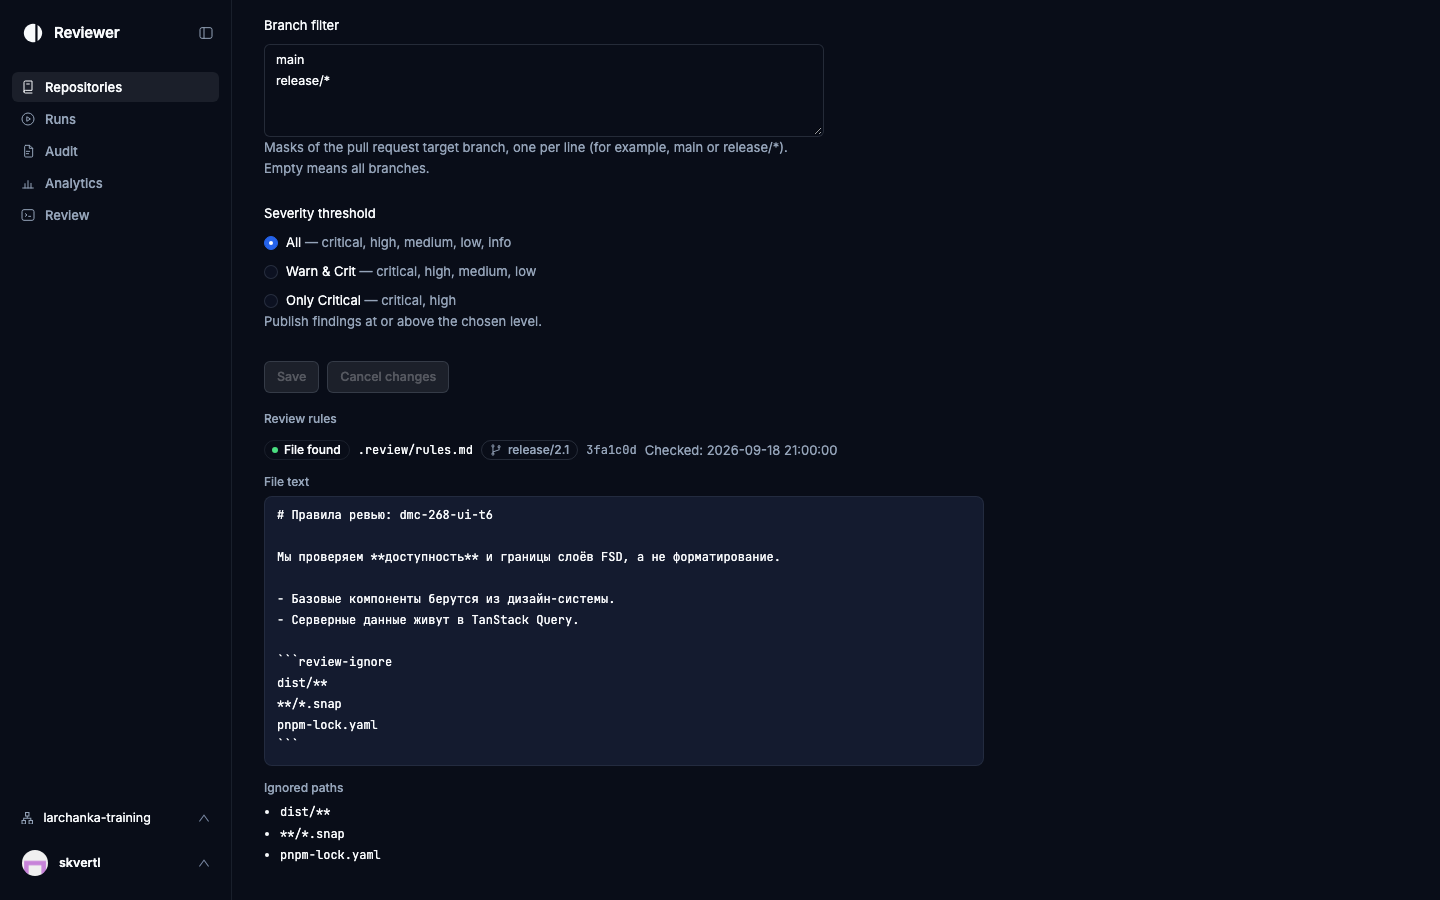
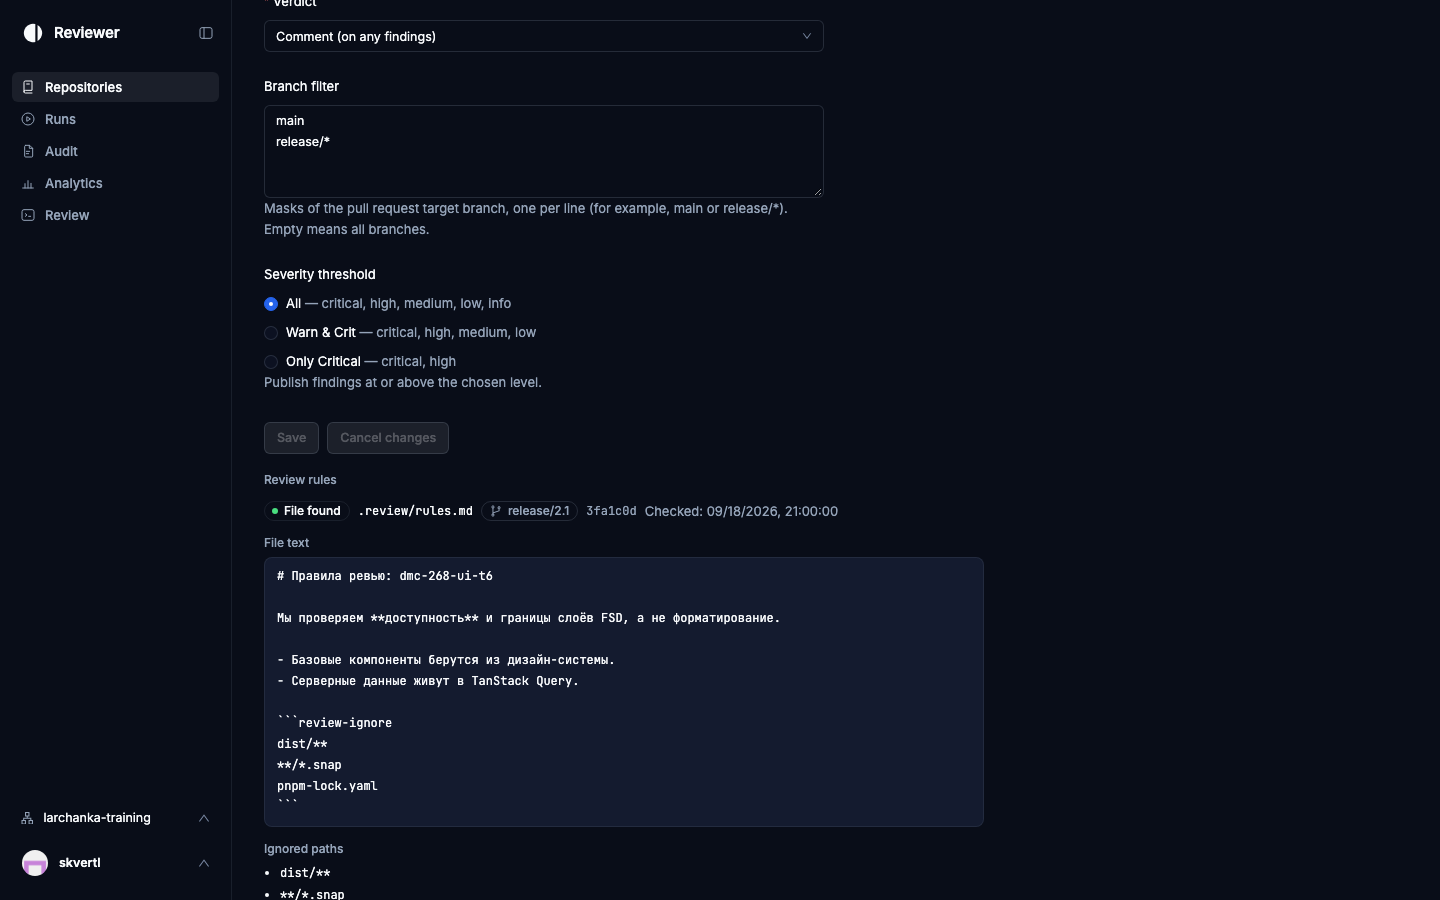
fix(time): keep locale notation with browser time (#129)

Changed region(s): [[0.1875, 0.0, 0.5938, 1.0], [0.3438, 0.4978, 0.5625, 0.5289], [0.4688, 0.6844, 0.5312, 0.7156]]

diff --git a/src/widgets/run-inspector/ui/RunHeader.test.tsx b/src/widgets/run-inspector/ui/RunHeader.test.tsx
@@ -110,8 +110,8 @@ describe('RunHeader metadata layout', () => {
     for (const [label, value] of [
       ['Движок', 'deep'],
       ['Модель', 'claude-sonnet-5'],
-      ['Создан', '2026-09-18 20:00:00'],
-      ['Начат', '2026-09-18 20:50:00'],
+      ['Создан', '18.09.2026, 20:00:00'],
+      ['Начат', '18.09.2026, 20:50:00'],
       ['Длительность', '5 мин 12 с'],
       ['Попытка', '3'],
       ['Причина', 'Неизвестная причина: provider_timeout'],
@@ -199,7 +199,7 @@ describe('RunHeader run origin', () => {
     render(<RunHeader now={new Date('2026-09-18T12:00:00.000Z')} run={{ ...baseRun, trigger }} />)
     expect(screen.queryByText('Перезапущен вручную')).toBeNull()
     expect(screen.queryByText('Запуск')).toBeNull()
-    expect(rowValue('Создан')).toBe('2026-09-18 20:00:00')
+    expect(rowValue('Создан')).toBe('18.09.2026, 20:00:00')
   })
 
   it('shows the creation time and a dash for the start time of a queued run', () => {
@@ -209,14 +209,14 @@ describe('RunHeader run origin', () => {
         run={{ ...baseRun, status: 'queued' as const, startedAt: null, finishedAt: null }}
       />,
     )
-    expect(rowValue('Создан')).toBe('2026-09-18 20:00:00')
+    expect(rowValue('Создан')).toBe('18.09.2026, 20:00:00')
     expect(rowValue('Начат')).toBe('—')
     expect(rowValue('Длительность')).toBe('—')
   })
 
   it('labels the start time «Начат» for a started run', () => {
     render(<RunHeader now={new Date('2026-09-18T12:00:00.000Z')} run={baseRun} />)
-    expect(rowValue('Начат')).toBe('2026-09-18 20:50:00')
+    expect(rowValue('Начат')).toBe('18.09.2026, 20:50:00')
     expect(screen.queryByText('Запущен')).toBeNull()
   })
 })

diff --git a/src/shared/lib/formatLocalDateTime.test.ts b/src/shared/lib/formatLocalDateTime.test.ts
@@ -1,24 +1,31 @@
 import { afterEach, describe, expect, it, vi } from 'vitest'
 
+import { i18n } from '../i18n'
 import { formatLocalDateTime } from './formatLocalDateTime'
 
-afterEach(() => {
+afterEach(async () => {
   vi.unstubAllEnvs()
+  await i18n.changeLanguage('ru')
 })
 
 describe('formatLocalDateTime', () => {
-  it('shows the next calendar day in a timezone east of UTC', () => {
+  it('shows the next calendar day in Tokyo with English notation', async () => {
     vi.stubEnv('TZ', 'Asia/Tokyo')
-    expect(formatLocalDateTime('2026-09-18T23:30:00Z')).toBe('2026-09-19 08:30:00')
+    await i18n.changeLanguage('en')
+    expect(formatLocalDateTime('2026-09-18T23:30:00Z')).toBe('09/19/2026, 08:30:00')
   })
 
-  it('shows the earlier local hour in a timezone west of UTC', () => {
+  it('shows the earlier local hour in Los Angeles with Russian notation', async () => {
     vi.stubEnv('TZ', 'America/Los_Angeles')
-    expect(formatLocalDateTime('2026-09-18T23:30:00Z')).toBe('2026-09-18 16:30:00')
+    await i18n.changeLanguage('ru')
+    expect(formatLocalDateTime('2026-09-18T23:30:00Z')).toBe('18.09.2026, 16:30:00')
   })
 
-  it('keeps the four-digit year layout for early dates', () => {
-    vi.stubEnv('TZ', 'UTC')
-    expect(formatLocalDateTime('0001-01-01T00:00:00Z')).toBe('0001-01-01 00:00:00')
+  it('changes notation when the interface language changes', async () => {
+    vi.stubEnv('TZ', 'Asia/Tokyo')
+    await i18n.changeLanguage('en')
+    expect(formatLocalDateTime('2026-09-18T23:30:00Z')).toBe('09/19/2026, 08:30:00')
+    await i18n.changeLanguage('ru')
+    expect(formatLocalDateTime('2026-09-18T23:30:00Z')).toBe('19.09.2026, 08:30:00')
   })
 })

diff --git a/src/widgets/repository-rules/ui/RulesStatusPanel.test.tsx b/src/widgets/repository-rules/ui/RulesStatusPanel.test.tsx
@@ -217,7 +217,7 @@ describe('RulesStatusPanel', () => {
     expect(view.getByText('.review/rules.md')).toBeTruthy()
     expect(view.getByText('release/2.1')).toBeTruthy()
     expect(view.getByText('1111111')).toBeTruthy()
-    expect(view.getByText('Проверено: 2026-10-14 18:30:15')).toBeTruthy()
+    expect(view.getByText('Проверено: 14.10.2026, 18:30:15')).toBeTruthy()
     expect(panel().textContent).not.toContain('UTC')
     expect(panel().querySelector('pre')?.textContent).toBe('# Rules\nBe kind.')
     expect(view.getByText('dist/**')).toBeTruthy()
@@ -808,7 +808,7 @@ describe('RulesStatusPanel', () => {
 
       expect(within(panel()).getByRole('status').textContent).toBe(CHECKING_TEXT)
       expect(within(panel()).getByText('Не удалось прочитать файл правил')).toBeTruthy()
-      expect(within(panel()).getByText('Проверено: 2026-10-14 18:30:15')).toBeTruthy()
+      expect(within(panel()).getByText('Проверено: 14.10.2026, 18:30:15')).toBeTruthy()
       expect(retryButton().classList.contains('ant-btn-loading')).toBe(true)
     })
 
@@ -819,7 +819,7 @@ describe('RulesStatusPanel', () => {
       await advance(3000)
       await advance(1)
 
-      expect(within(panel()).getByText('Проверено: 2026-10-14 18:31:15')).toBeTruthy()
+      expect(within(panel()).getByText('Проверено: 14.10.2026, 18:31:15')).toBeTruthy()
       expect(within(panel()).queryByRole('status')).toBeNull()
       expect(retryButton()).toBe(retry)
       expect(retry.classList.contains('ant-btn-loading')).toBe(false)

diff --git a/src/features/repository-settings/ui/RagSection.test.tsx b/src/features/repository-settings/ui/RagSection.test.tsx
@@ -17,6 +17,7 @@ beforeAll(() => {
 afterAll(() => {
   vi.unstubAllEnvs()
 })
+
 const READY_INDEX: RagIndex = {
   status: 'ready',
   indexedCommitSha: SHA,
@@ -362,7 +363,7 @@ describe('RagSection: the index status', () => {
     const short = within(statusLine()).getByText('0123456')
     expect(short.tagName).toBe('CODE')
     expect(short.tabIndex).toBe(0)
-    expect(within(statusLine()).getByText('обновлён 2026-10-14 18:30:15')).toBeTruthy()
+    expect(within(statusLine()).getByText('обновлён 14.10.2026, 18:30:15')).toBeTruthy()
     expect(statusLine().textContent).not.toContain('UTC')
     expect(screen.queryByText(SHA)).toBeNull()
 
@@ -388,7 +389,7 @@ describe('RagSection: the index status', () => {
     expect(line.getByText('Устарел').getAttribute('data-tone')).toBe('warning')
     expect(line.getByText('индекс отстаёт от default branch, используется')).toBeTruthy()
     expect(line.getByText('0123456')).toBeTruthy()
-    expect(line.getByText('обновлён 2026-10-14 18:30:15')).toBeTruthy()
+    expect(line.getByText('обновлён 14.10.2026, 18:30:15')).toBeTruthy()
     expect(statusLine().textContent).not.toContain('UTC')
   })
 

diff --git a/src/shared/lib/formatLocalDateTime.ts b/src/shared/lib/formatLocalDateTime.ts
@@ -1,5 +1,13 @@
+import { i18n } from '../i18n'
+
 export function formatLocalDateTime(iso: string): string {
-  const date = new Date(iso)
-  const twoDigits = (value: number): string => String(value).padStart(2, '0')
-  return `${String(date.getFullYear()).padStart(4, '0')}-${twoDigits(date.getMonth() + 1)}-${twoDigits(date.getDate())} ${twoDigits(date.getHours())}:${twoDigits(date.getMinutes())}:${twoDigits(date.getSeconds())}`
+  return new Intl.DateTimeFormat(i18n.language, {
+    year: 'numeric',
+    month: '2-digit',
+    day: '2-digit',
+    hour: '2-digit',
+    minute: '2-digit',
+    second: '2-digit',
+    hourCycle: 'h23',
+  }).format(new Date(iso))
 }

diff --git a/src/pages/repositories/RepositorySettingsPage.test.tsx b/src/pages/repositories/RepositorySettingsPage.test.tsx
@@ -1694,7 +1694,7 @@ describe('RepositorySettingsPage: RAG', () => {
     expect(ragSwitch().getAttribute('aria-checked')).toBe('true')
     expect(within(section).getByText('Готов')).toBeTruthy()
     expect(within(section).getByText(READY_SHA.slice(0, 7)).tagName).toBe('CODE')
-    expect(within(section).getByText('обновлён 2026-10-20 17:15:30')).toBeTruthy()
+    expect(within(section).getByText('обновлён 20.10.2026, 17:15:30')).toBeTruthy()
     expect(section.textContent).not.toContain('UTC')
   })
 

diff --git a/src/pages/audit/AuditPage.test.tsx b/src/pages/audit/AuditPage.test.tsx
@@ -107,7 +107,7 @@ describe('AuditPage', () => {
       nextCursor: null,
     }))
     renderPage()
-    expect(await screen.findByText('2026-09-18 20:00:00')).toBeTruthy()
+    expect(await screen.findByText('18.09.2026, 20:00:00')).toBeTruthy()
     for (const heading of [
       'Начат',
       'Репозиторий',

diff --git a/src/features/repository-settings/lib/ragIndexView.test.ts b/src/features/repository-settings/lib/ragIndexView.test.ts
@@ -37,7 +37,7 @@ function index(overrides: Partial<RagIndex>): RagIndex {
 const PUBLICATION: RagIndexView['publication'] = {
   sha: SHA,
   shortSha: '0123456',
-  indexedAt: '2026-10-14 18:30:15',
+  indexedAt: '14.10.2026, 18:30:15',
 }
 
 describe('ragIndexView', () => {

diff --git a/docs/evidence/129/README.md b/docs/evidence/129/README.md
@@ -1,12 +1,12 @@
 # ui#129 browser evidence
 
-Captured with Chromium, the Vite mock transport, a 1440 × 900 viewport, and the browser timezone set to `Asia/Tokyo`. Each screen was checked in light and dark themes.
+Captured with Chromium, the Vite mock transport, English UI, a 1440 × 900 viewport, and the browser timezone set to `Asia/Tokyo`. Each screen was checked in light and dark themes.
 
-The `before/` screenshots reproduce the old UTC behavior by intercepting the formatter module in the browser and returning `new Date(iso).toISOString().replace('T', ' ').slice(0, 19)`. This keeps the same UI shell for comparison; these are not screenshots of the historical `origin/main` build. The `after/` screenshots use the committed formatter with no interception.
+The `before/` screenshots come from the PR base commit `210f63ef` running unmodified in an isolated Vite snapshot. The `after/` screenshots use this branch. Both runs use the same mock fixtures, language, theme, viewport, browser timezone, and scroll positions (run: top; rules: 600 px). No formatter module is intercepted. The timestamps below come from the mock transport fixtures, so these screenshots do not establish a live API response in the Network panel.
 
-| Screen                | Mock API time          | Before                | After                 |
-| --------------------- | ---------------------- | --------------------- | --------------------- |
-| Run header, Created   | `2026-09-18T11:49:00Z` | `2026-09-18 11:49:00` | `2026-09-18 20:49:00` |
-| Review rules, Checked | `2026-09-18T12:00:00Z` | `2026-09-18 12:00:00` | `2026-09-18 21:00:00` |
+| Screen                | Mock fixture ISO time  | Before (base, UTC)     | After (browser local)  |
+| --------------------- | ---------------------- | ---------------------- | ---------------------- |
+| Run header, Created   | `2026-09-18T11:49:00Z` | `09/18/2026, 11:49:00` | `09/18/2026, 20:49:00` |
+| Review rules, Checked | `2026-09-18T12:00:00Z` | `09/18/2026, 12:00:00` | `09/18/2026, 21:00:00` |
 
-Both values retain the 19-character layout, stay on one line, and keep the same color within each theme. The CSS is unchanged.
+The English values remain 20 characters, stay on one line, and keep the same color within each theme. The CSS is unchanged. The date and time notation still follows the selected interface language, as required by #182; #129's fixed 19-character layout is intentionally superseded by that decision.

diff --git a/docs/FRONTEND_ARCHITECTURE.md b/docs/FRONTEND_ARCHITECTURE.md
@@ -1122,10 +1122,9 @@ Upgrade canary в `routerLocationAdapter.test.tsx` проверяет досту
   `disabled` при включённом RAG — окно оптимистичного обновления: `ragEnabled` уже перевёрнут, а `ragIndex`
   отстаёт на один ответ, поэтому такой статус читается «Не построен»; при выключенном RAG старый статус не
   виден вовсе («Выключен»). Короткий sha — первые 7 символов в `<code tabIndex={0}>` с `Tooltip` на hover и
-  focus (в нём полный sha, как в блоке правил), время — UTC `YYYY-MM-DD HH:mm:ss` (`shortSha`,
-  `formatIndexedAt`; в срезе фичи написаны заново: из `widgets/repository-rules` их импортировать нельзя, §1)
-  без подписи зоны, как «Проверено: …» блока правил: подпись «UTC» убрана из всего приложения в #106, локальное
-  время — ui#129.
+  focus (в нём полный sha, как в блоке правил), время — в местном часовом поясе браузера и формате
+  выбранного языка через `formatLocalDateTime` из `shared/lib`. `shortSha` остаётся в срезе фичи: из
+  `widgets/repository-rules` его импортировать нельзя (§1).
   Если у `ready` или `stale` нет `indexedCommitSha` или `indexedAt` (контракт этого не допускает), sha и время
   не показываются, ошибки нет.
   `lastErrorCode` при включённом RAG показан у любого статуса (`reason` из `ragIndexView`; api ставит его, когда
